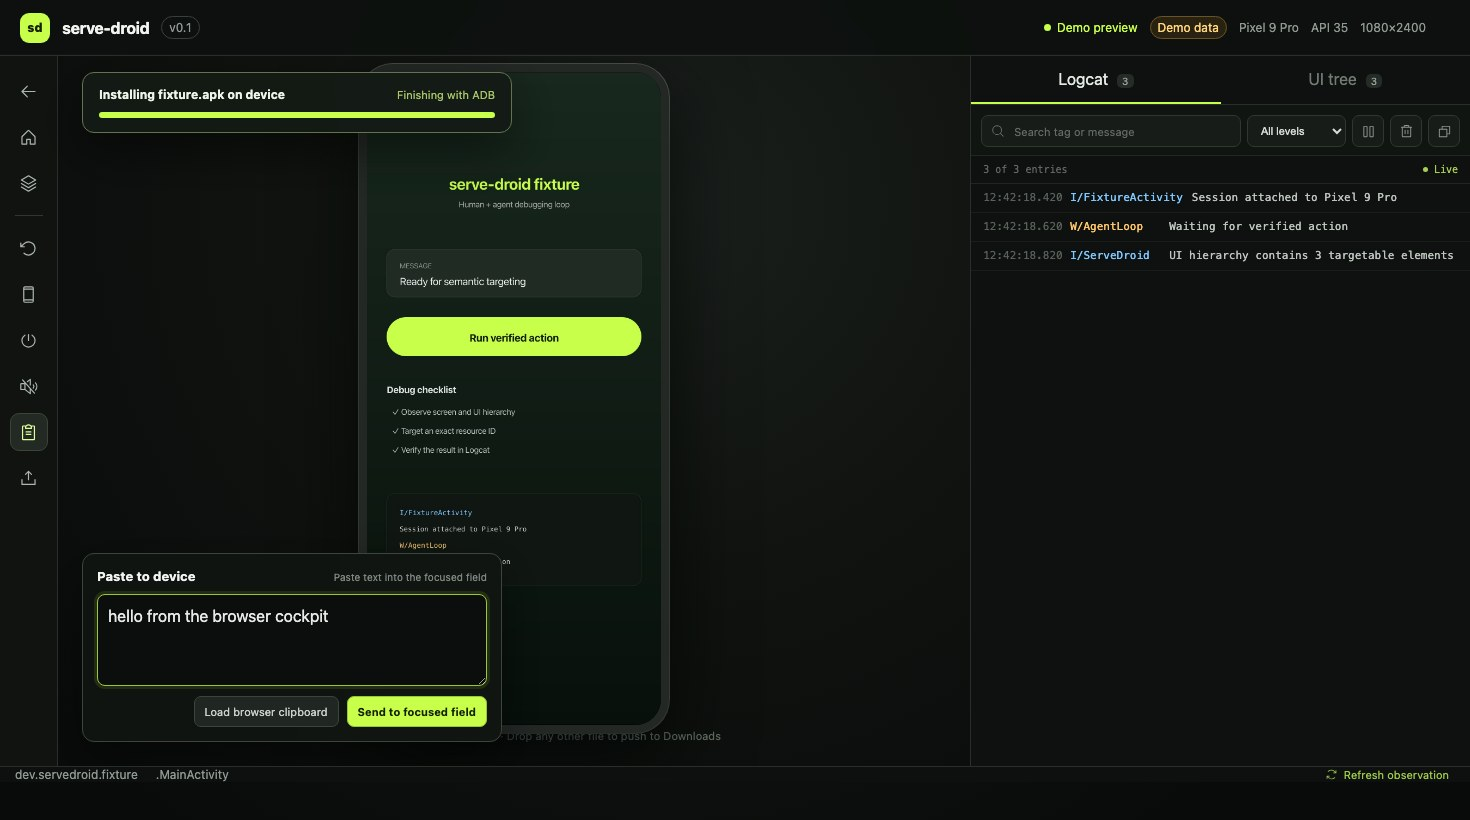
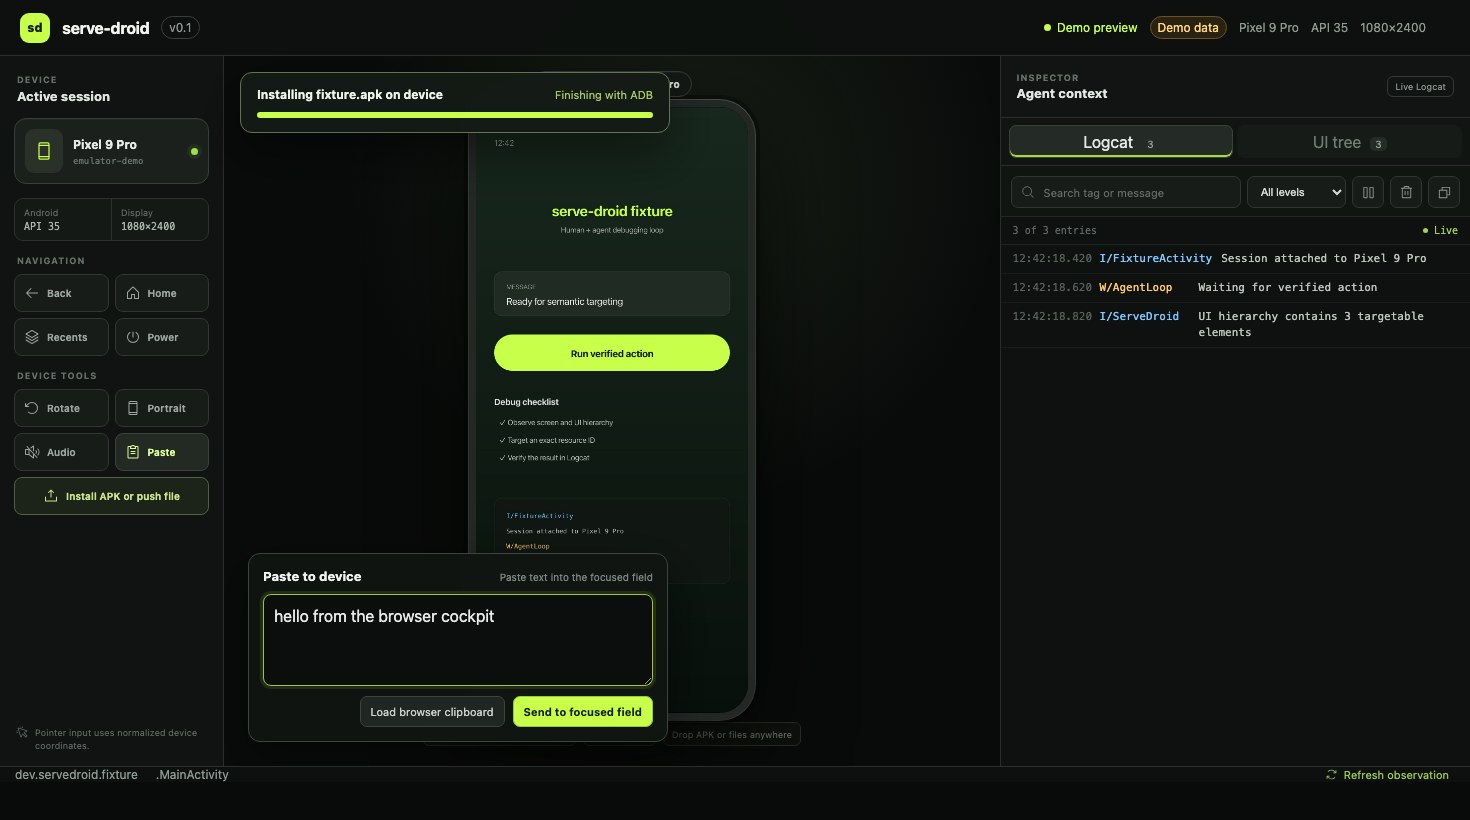
docs(readme): refresh cockpit preview

diff --git a/README.md b/README.md
@@ -12,11 +12,12 @@ npx serve-droid
 # → Browser cockpit at a local authenticated URL
 ```
 
-![serve-droid browser cockpit showing a demo Android fixture, searchable Logcat console, and device controls](docs/assets/serve-droid-cockpit.jpg)
+![serve-droid browser cockpit with an active Android device, direct controls, file install progress, clipboard paste, and searchable Logcat](docs/assets/serve-droid-cockpit.jpg)
 
-_Deterministic documentation demo: live device stream, semantic UI tree, filtered Logcat, and
-human controls share the same session. This image is not real-device validation; hardware evidence
-is tracked separately in the release checklist._
+_One shared session: active-device controls on the left, the live Android surface in the center,
+and agent context such as filtered Logcat or the semantic UI tree on the right. The deterministic
+demo also exercises authenticated file install and clipboard flows. It is not real-device
+validation; hardware evidence is tracked separately in the release checklist._
 
 ## What you get
 